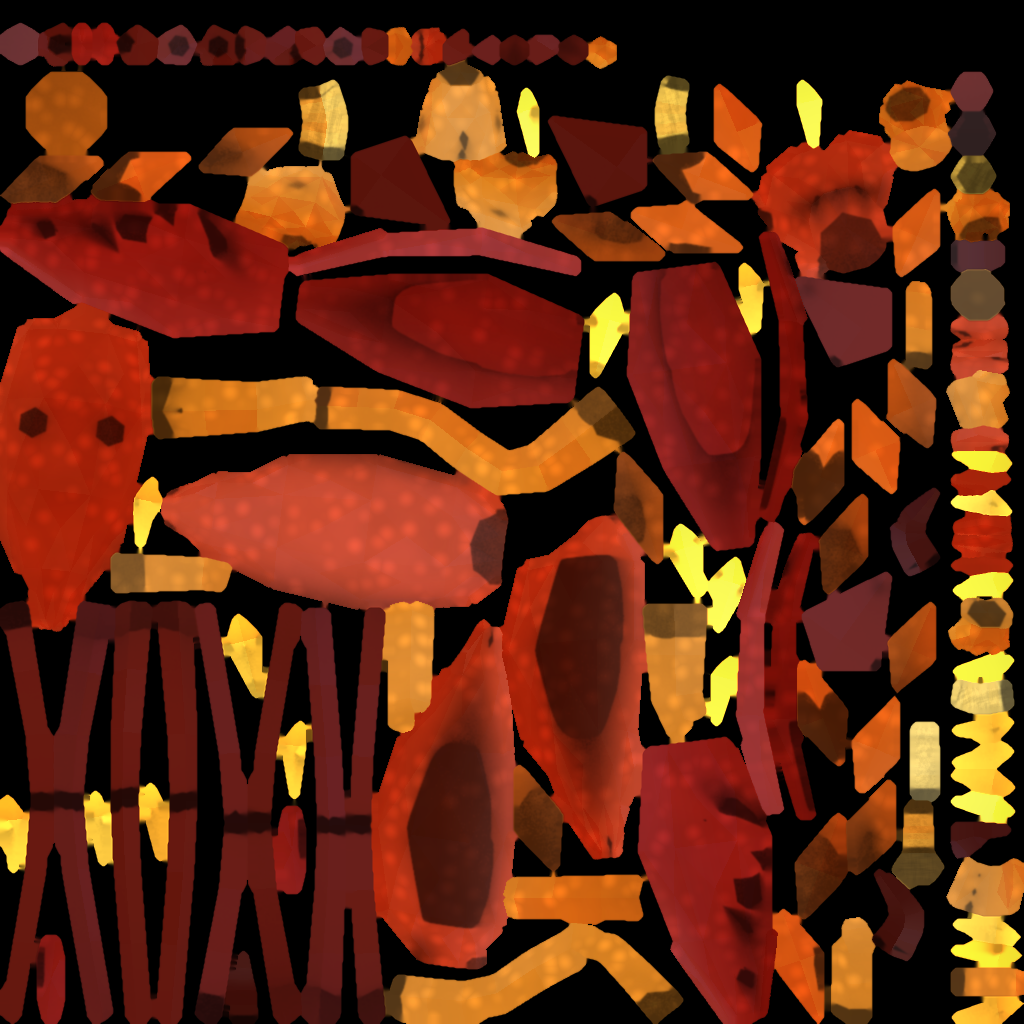
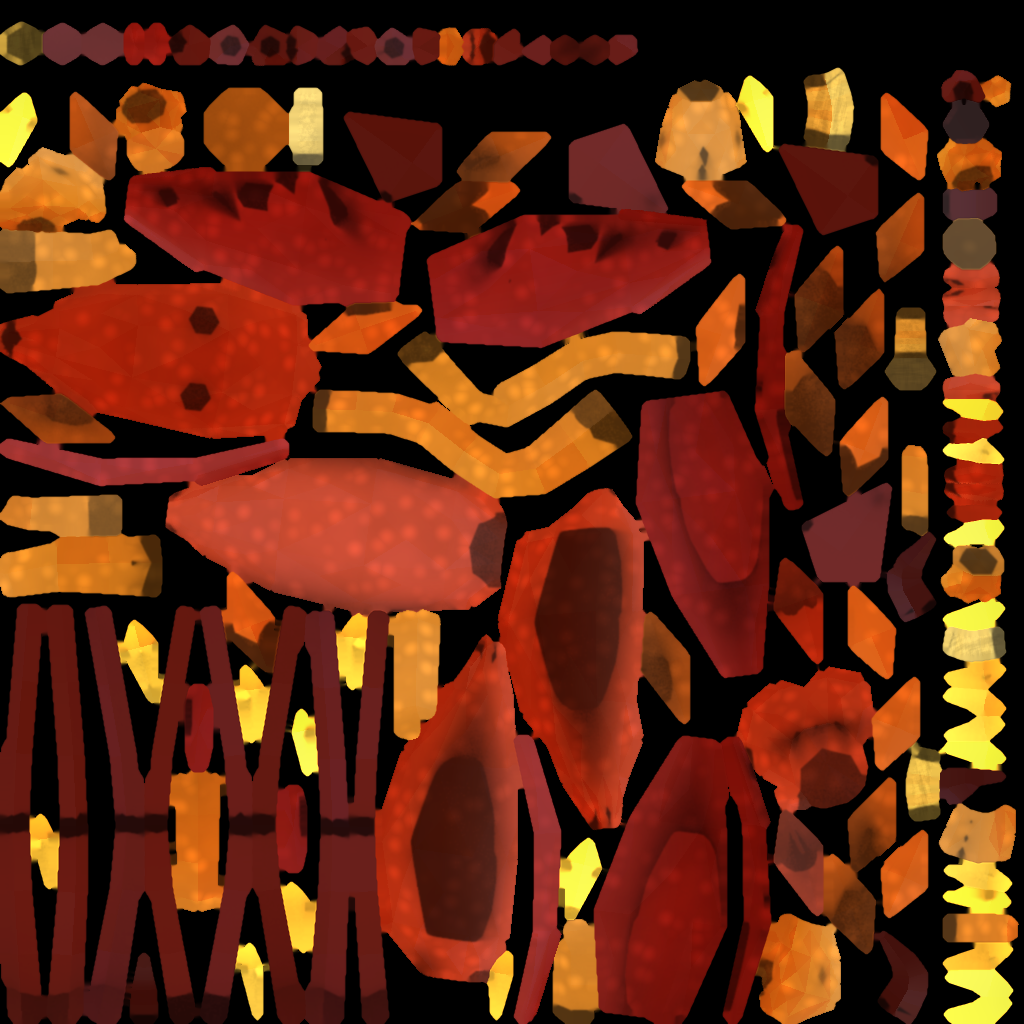
STATION-045: the Phoenix Flamingo gets a painted tail piece (the rig needs one) and is exported again

diff --git a/tools/blender/stations/assets/flamingos.py b/tools/blender/stations/assets/flamingos.py
@@ -112,6 +112,8 @@ def phoenix_extra(groups, pieces, rng, glow):
         b = ROOT + Vector((dx * 1.2, length * 0.45, 0.25))
         c = ROOT + Vector((dx * 2.2, length * 0.85, -0.5 - abs(dx)))
         groups["tail_glow"] += [shard(a, b, 0.3, 0.1, None, rng, face=(0, 0, 1), at=0.6, m=glow, name="streamer"), shard(b - (b - a) * 0.15, c, 0.36, 0.1, None, rng, face=(0, 0, 1), at=0.35, m=glow, name="streamer")]
+    # the rig needs a painted tail piece: a stub of red feathers the streamers flow from
+    groups["tail"].append(shard(ROOT - Vector((0, 0.25, 0)), ROOT + Vector((0, 0.5, -0.08)), 0.34, 0.16, tone((226, 62, 24), F.FIRE), rng, face=(0, 0, 1), at=0.4, name="rump", surface="scales"))
     gold = tone((255, 196, 50), F.FIRE)
     for i in range(7):
         a = (i - 3) * 0.3
